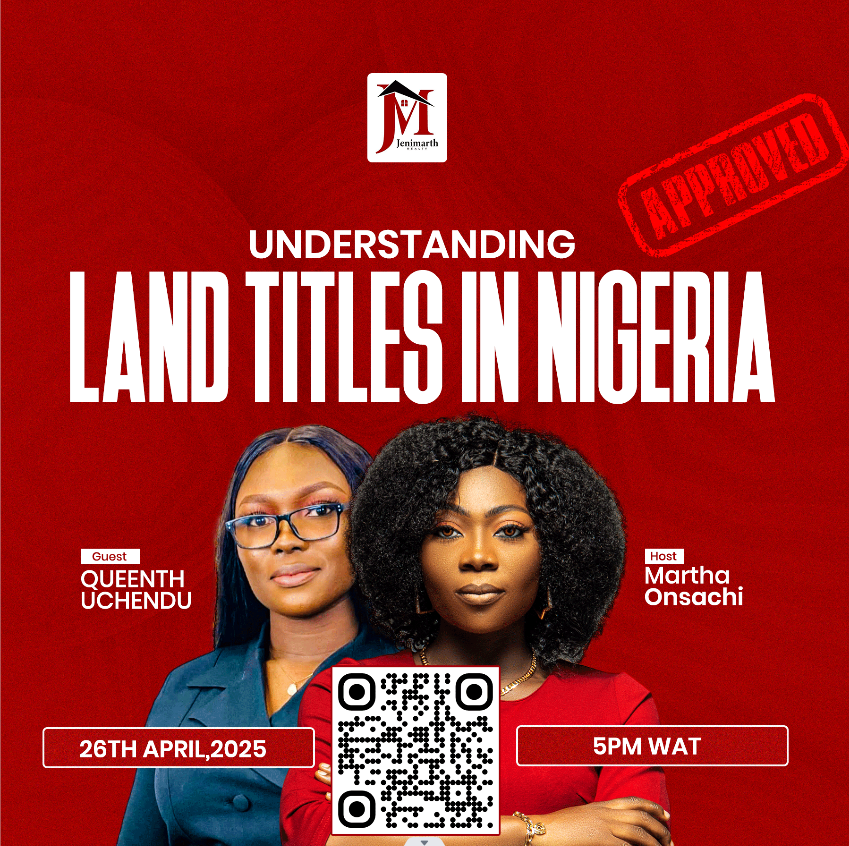
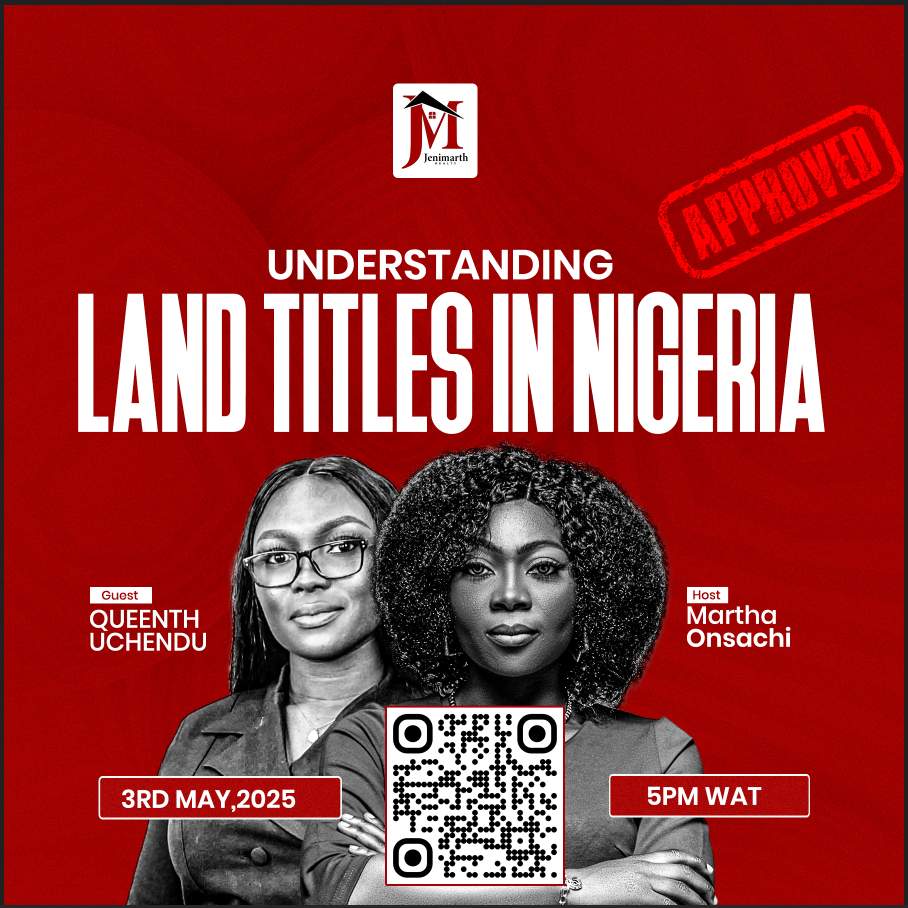
`Update EventHero component to display new date`

Changed region(s): [[0.0, 0.0, 1.0, 1.0], [0.4287, 0.0615, 0.5206, 0.2151], [0.4287, 0.461, 0.4594, 0.4917]]

diff --git a/src/components/EventHero.tsx b/src/components/EventHero.tsx
@@ -40,7 +40,7 @@ const EventHero = () => {
           <div className={`flex flex-col md:flex-row justify-center gap-6 mb-8 transition-all duration-700 delay-300 ${loaded ? 'opacity-100' : 'opacity-0 translate-y-8'}`}>
             <div className="flex items-center gap-2">
               <Calendar className="w-5 h-5 text-event-purple" />
-              <span>26th April 2025</span>
+              <span>3rd May 2025</span>
             </div>
             <div className="flex items-center gap-2">
               <Clock className="w-5 h-5 text-event-purple" />
